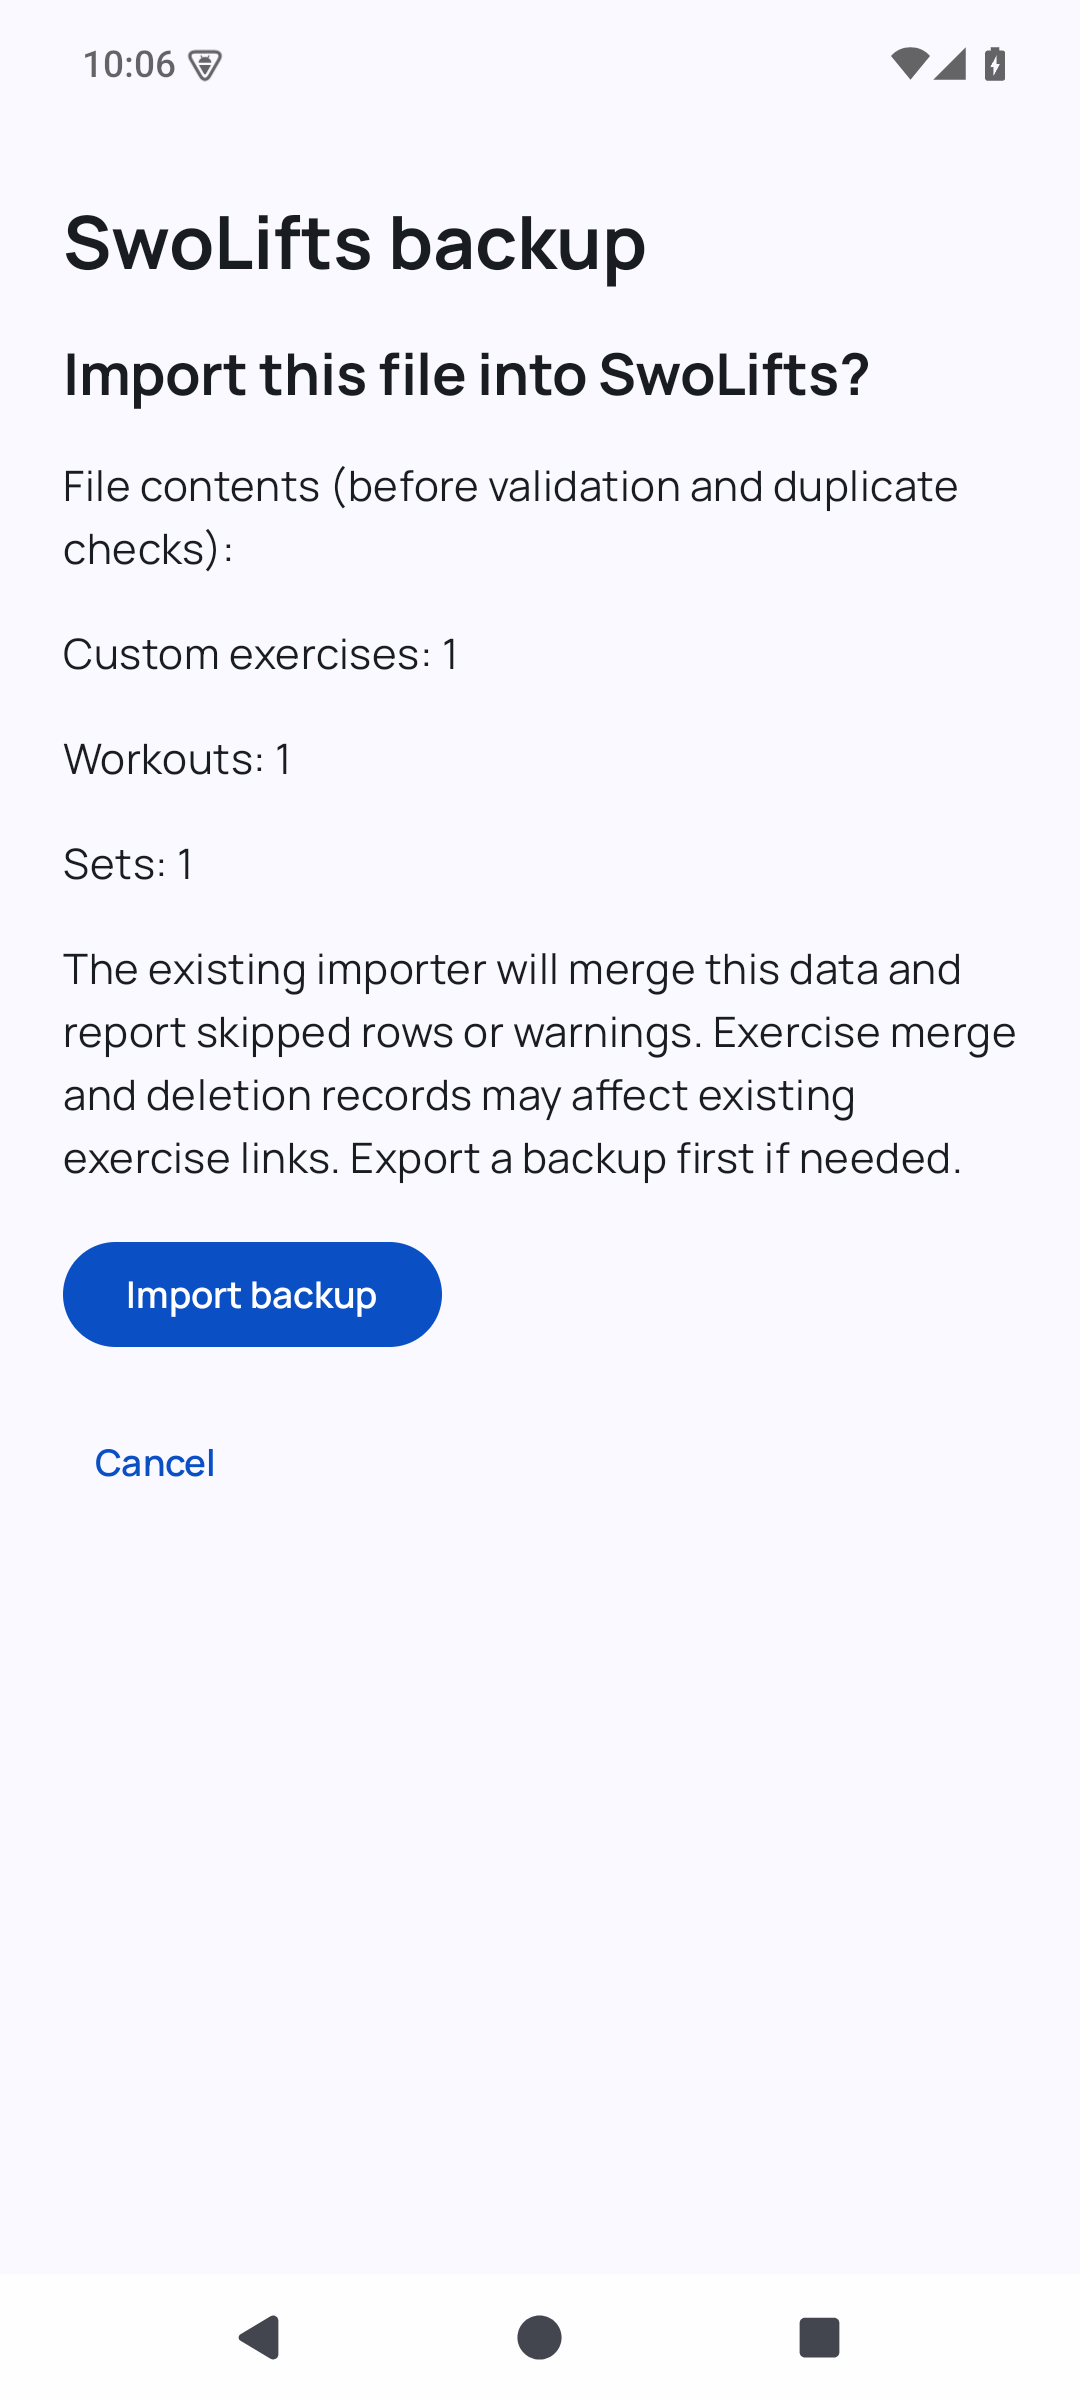
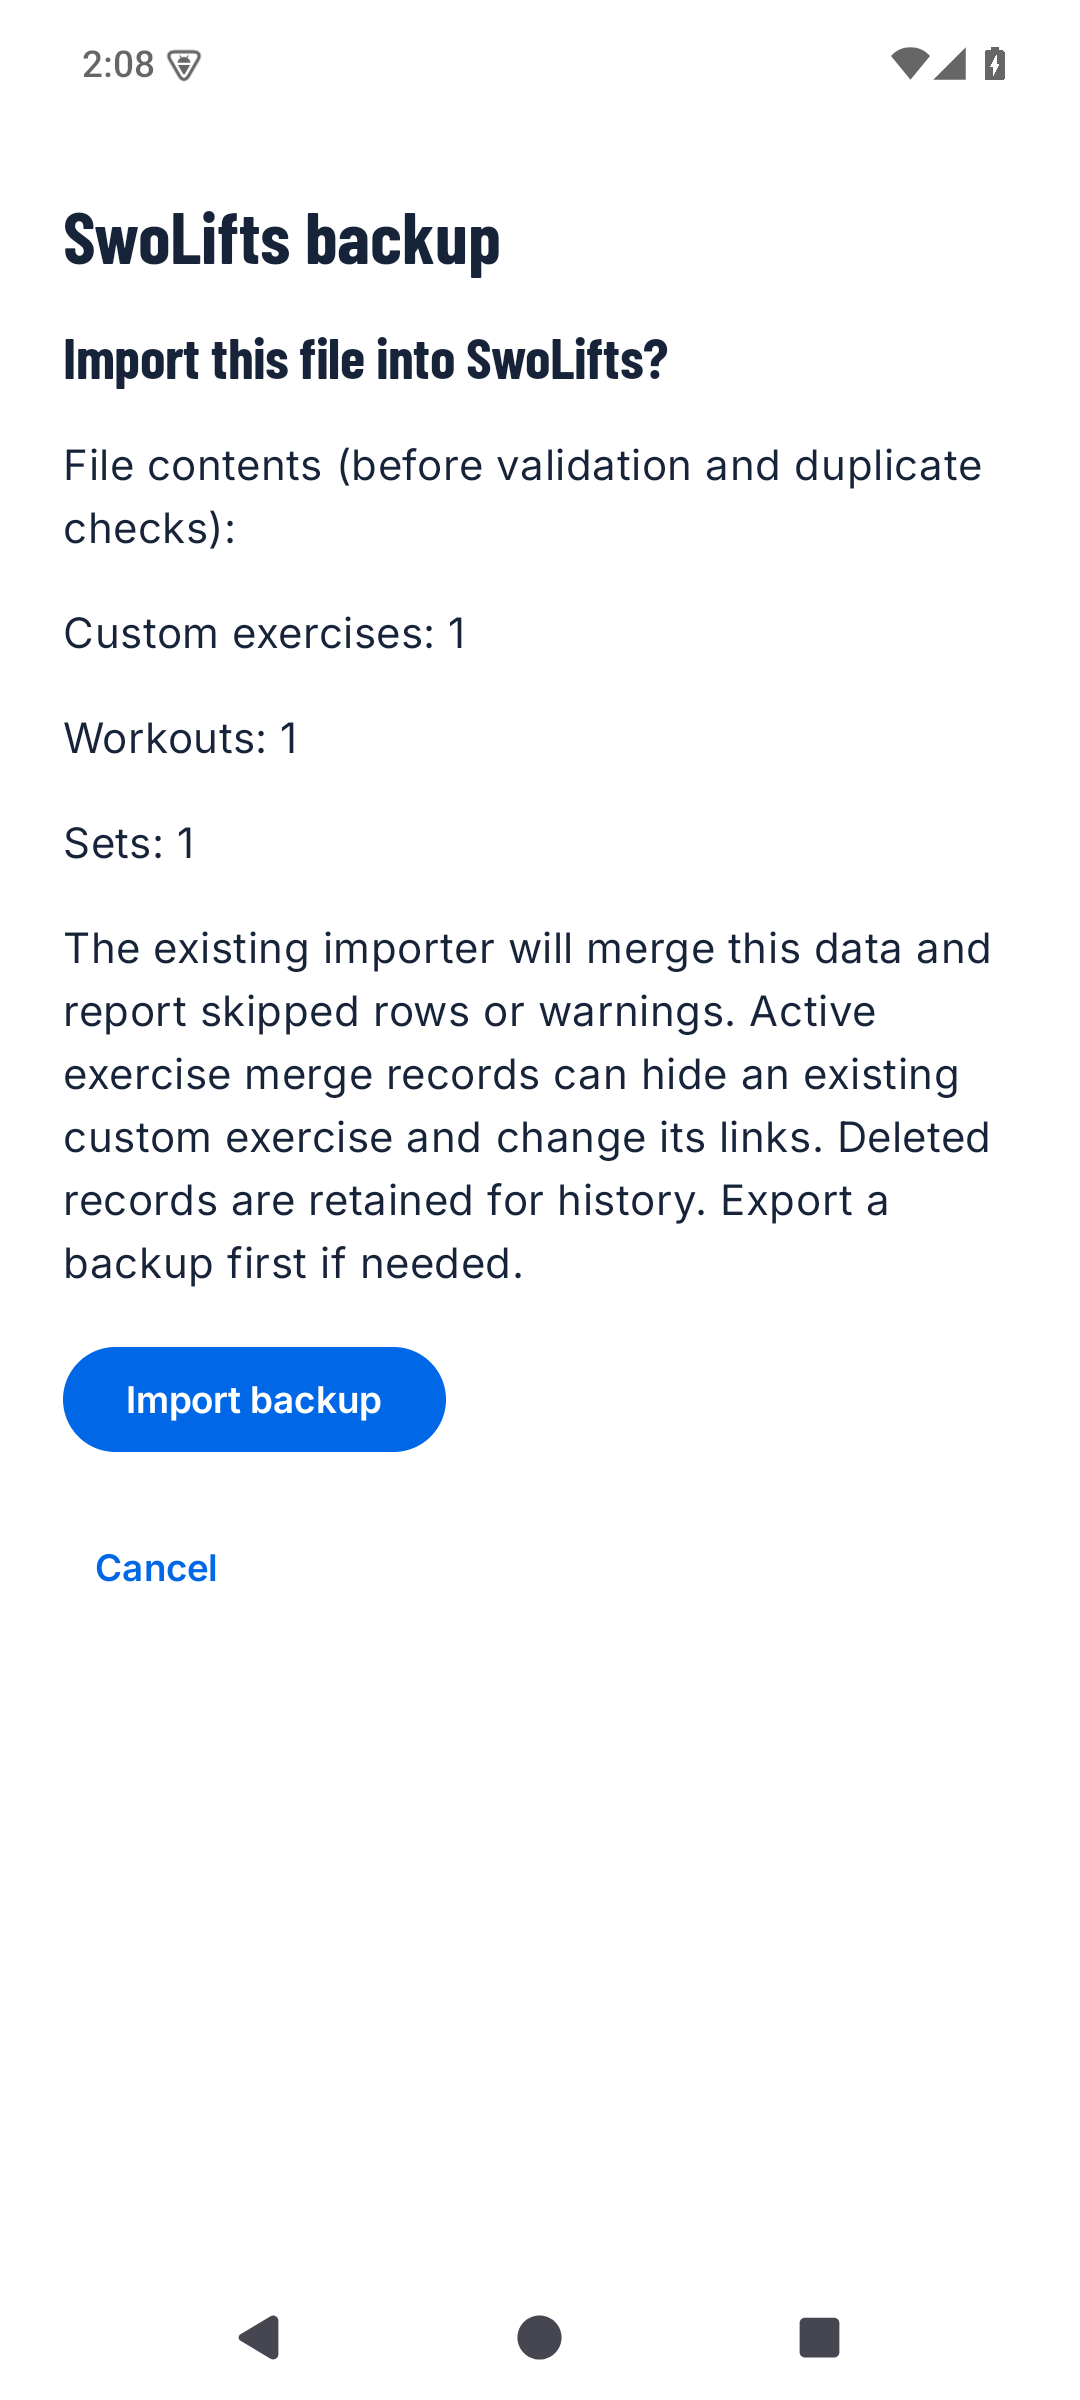
docs: refresh 1.2.0 transfer guide captures

Changed region(s): [[0.0611, 0.0938, 0.9472, 0.6562], [0.0917, 0.0, 0.2139, 0.0312]]

diff --git a/src/pages/ImportExport.jsx b/src/pages/ImportExport.jsx
@@ -51,7 +51,7 @@ export default function ImportExport() {
             </ol>
             <div className="template-download-grid">
               <figure><img src="/assets/transfer/send-to-computer.png" alt="SwoLifts Settings with Send to computer and Export to file" loading="lazy" style={{maxWidth: "240px", width: "100%"}} /><figcaption>Choose Send to computer in Settings.</figcaption></figure>
-              <figure><img src="/assets/transfer/import-preview.png" alt="SwoLifts previews workouts and sets before the Import backup confirmation" loading="lazy" style={{maxWidth: "240px", width: "100%"}} /><figcaption>Review the file before importing it.</figcaption></figure>
+              <figure><img src="/assets/transfer/import-preview.png" alt="SwoLifts import preview lists custom exercises, workouts and sets, and warns that existing exercise merges can change links" loading="lazy" style={{maxWidth: "240px", width: "100%"}} /><figcaption>Review the file before importing it.</figcaption></figure>
             </div>
             <p><strong>USB fallback:</strong> use Export to file, connect the phone with a USB cable and select File transfer on the phone. Copy the ZIP between Downloads folders using Windows File Explorer. Open the returned ZIP with SwoLifts, or select it through Settings, then Import Workout Data.</p>
           </section>

diff --git a/docs/WEB_WORKBENCH_01.md b/docs/WEB_WORKBENCH_01.md
@@ -4,7 +4,7 @@
 - Release: [SwoLifts #497 / RELEASE-120-01](https://github.com/maxilmarcus/SwoLifts/issues/497).
 - Android transfer: [#502 / TRANSFER-APP-01](https://github.com/maxilmarcus/SwoLifts/pull/502).
 - Required review: Claude; Data, Security/Privacy, Product/UX and Accessibility.
-- Status: Independent follow-up review accepted at `1831df3`; existing build, 26 unit tests and 54 browser tests passed. Integrated transfer source pin, final app screenshots and release-version reconciliation remain. Production deployment stays separately owner-gated after Android 1.2.0 is live.
+- Status: Independent follow-up review accepted at `1831df3`; existing build, 26 unit tests and 54 browser tests passed. Integrated transfer source pin and branded 1.2.0 candidate screenshots are prepared; final website validation and Android release approval remain. Production deployment stays separately owner-gated after Android 1.2.0 is live.
 
 ## Contract and behavior
 
@@ -67,10 +67,17 @@ Path traversal and encrypted archives are rejected.
 Quick Share instructions link to Google's
 [Windows download](https://www.android.com/quick-share/with-windows-pc/) and
 [transfer help](https://support.google.com/android/answer/13801258?hl=en).
-Current transfer pictures are synthetic emulator screenshots from Android #502.
-They show SwoLifts' share and import screens; they are not proof of Windows radio
-delivery. Real Windows Quick Share setup screenshots and a phone/PC round trip
-remain owner-assisted acceptance work. USB/file-picker instructions are retained.
+The transfer pictures are synthetic emulator captures from the Android 1.2.0
+preparation branch at `3a166fa921794f7e2f6fe4b7241cc015f6de4195` after #512 integration, using the disposable
+`.debug` package and the tracked `valid-wrapped-bom-exact-kg.zip` fixture. No
+owner data or phone capture is included. `send-to-computer.png` SHA-256 is
[1 lines of base64/hex data omitted]
+`import-preview.png` SHA-256 is
[1 lines of base64/hex data omitted]
+They show SwoLifts' Settings and pre-import confirmation; they are not proof of
+Windows radio delivery. The owner-assisted phone/Windows Quick Share round trip with a
+workbench-edited template passed in [Android #502's acceptance evidence](https://github.com/maxilmarcus/SwoLifts/pull/502#issuecomment-6357824699).
+USB/file-picker instructions are retained.
 
 ## Validation
 
@@ -125,6 +132,14 @@ CSP test blocks injected inline/foreign scripts and foreign connections.
 [Review receipt](workbench-2026-10-17/review-validation.json) identifies the logs,
 source file hashes and browser-produced fixture. Preview processes are stopped.
 
+2026-10-23 screenshot update: the integrated 1.2.0 candidate produced the two
+synthetic transfer captures identified in Dependencies and transfer instructions.
+Local `npm run build` passed and `npm test` passed all 26 unit and 54
+desktop/mobile browser cases, including links, image URL responses, privacy and
+CSP. This run used local Node 22.19.0; the PR's owner-approved hosted
+CI validates Node 24 after the updated revision is pushed. The existing local
+preview at port 4173 remains available for owner review and is not a deployment.
+
 ## Independent review corrections
 
 [Claude review](https://github.com/maxilmarcus/maxil-website/issues/54#issuecomment-6245376580)
@@ -166,9 +181,11 @@ Font subsets and unrelated app UX changes are outside this workbench correction.
 - Android #502 is integrated at `c86db4c8f95ec7f7905763225df55b3392b8709e`. The transfer fixture
   pin now references that commit; every fixture and manifest matches canonical
   Git bytes. The independent catalog source pin remains unchanged.
-- Branding #501 and polish #511 are merged into Android `dev`. Replace the app
-  guide/home screenshots, including transfer captures, from the integrated
-  release candidate. Phone/Windows delivery still needs its planned manual check.
+- Branding #501, polish #511 and next-set badge #512 are merged into Android
+  `dev`. Transfer guide captures now come from the integrated 1.2.0 preparation
+  branch as identified above. Reconcile other app guide/home media against the
+  final release candidate. Phone/Windows delivery passed the linked manual
+  round trip; do not repeat it on unchanged transfer code.
 - Reconcile version references with the eventual 1.2.0 release record. Draft
   notes during preparation, finalize against the approved candidate, and publish
   availability claims only when the app is actually available.
